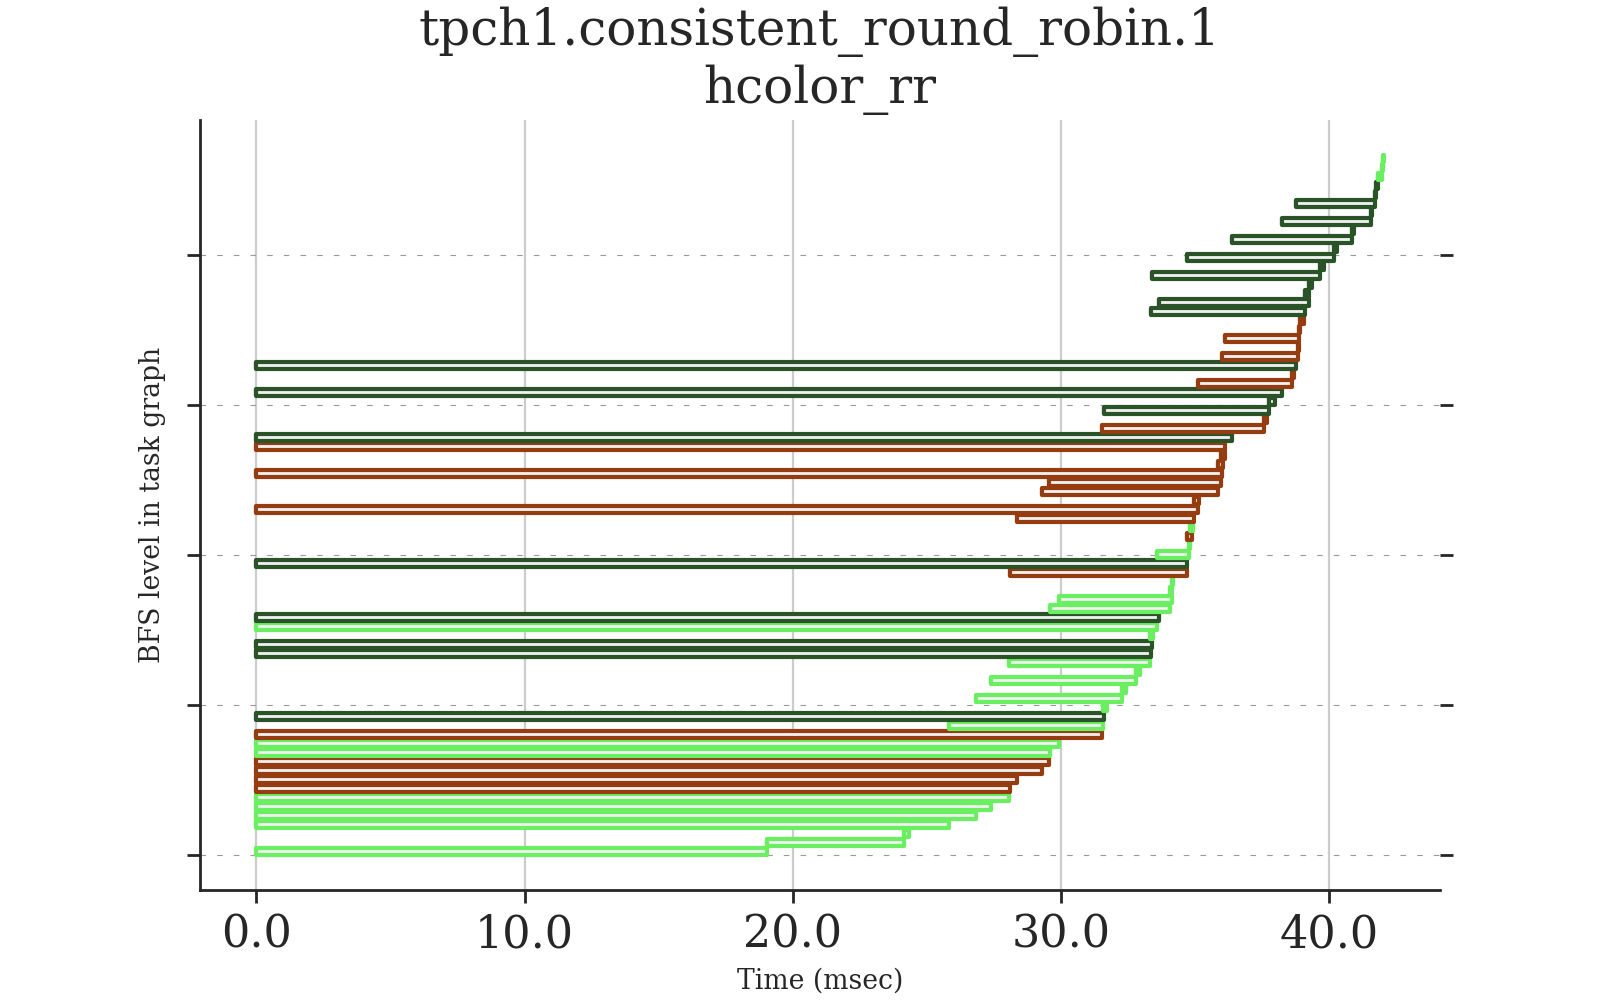
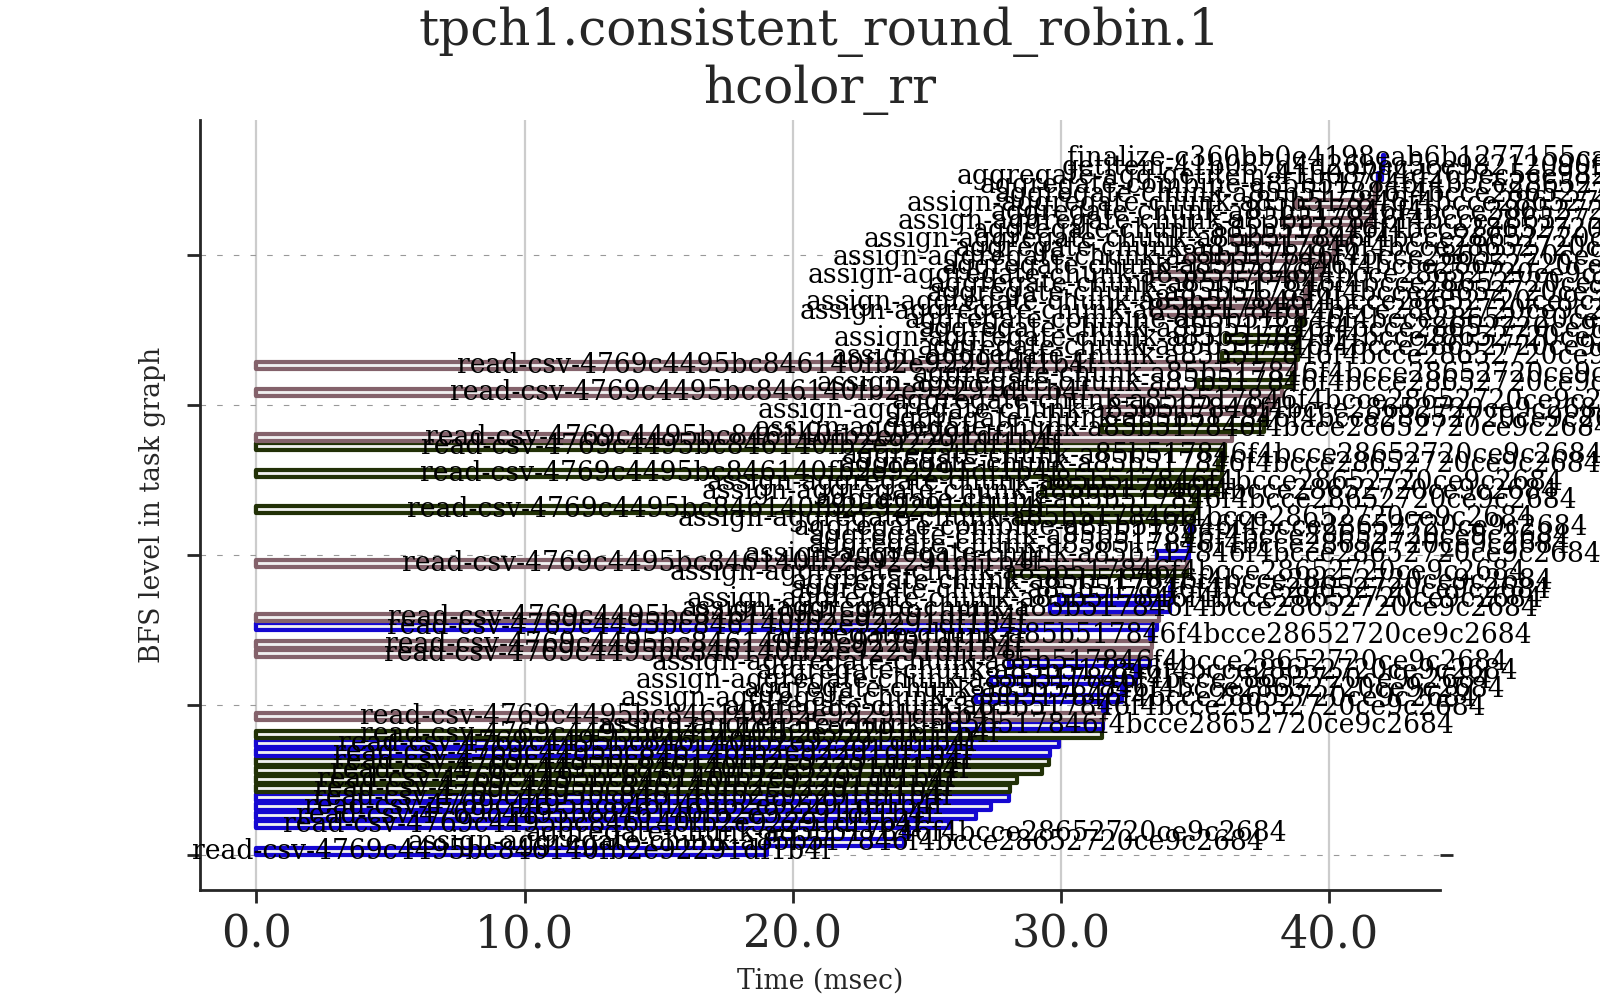
update

Changed region(s): [[0.125, 0.124, 1.0, 0.868]]

diff --git a/simulator/scheduler.py b/simulator/scheduler.py
@@ -12,6 +12,7 @@ import timeit
 import json
 import os
 import math
+import ast
 
 from graphviz import Digraph
 import matplotlib.colors as mcolors
@@ -193,6 +194,20 @@ class Scheduler(object):
                            edgecolors =self.worker_colors[ts['worker']], facecolors =(self.worker_colors[ts['worker']]))
             ax.broken_barh([(ts['start_ts'] + ts['fetch_time'], ts['computation_time'])], (base, size),
                            edgecolors =self.worker_colors[ts['worker']], facecolors='#f0f0f0')
+
+            vname = ts['name'] #fid.split('-', 1)
+            try:
+                vname = ast.literal_eval(vname)[0]
+            except ValueError:
+                vname = vname
+            ax.text(x=ts['start_ts'] + ts['fetch_time'] + (ts['computation_time'])/2,
+                    y=base + size/2,
+                    #s=f'{vname[1]}, {ts["nbytes"]>>20}MB' if len(vname) > 1 else vname[0],
+                    s=vname,
+                    ha='center',
+                    va='center',
+                    color='black')
+
             base += (size + margin)
         ax.set_yticklabels(yticks)
         ax.set_title(f'{job.name}\n{self.policy}', fontsize=18)
